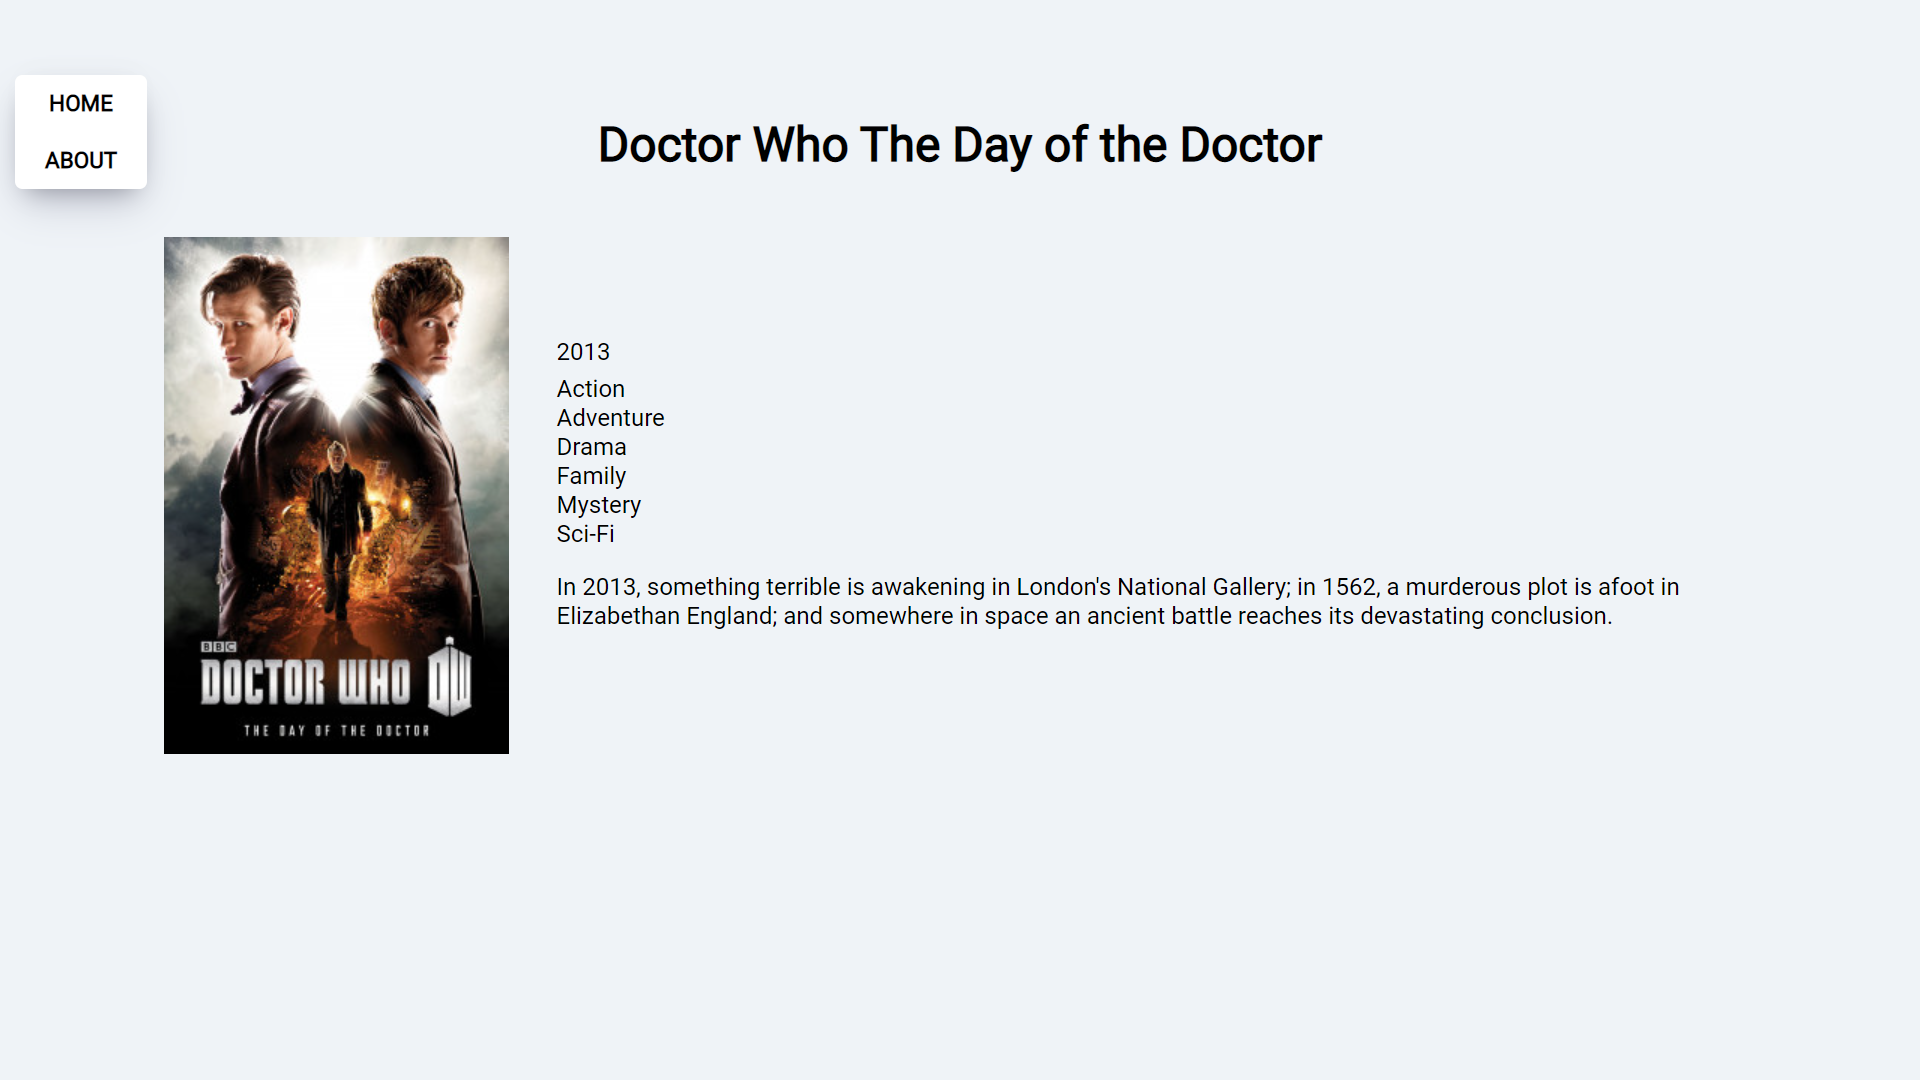
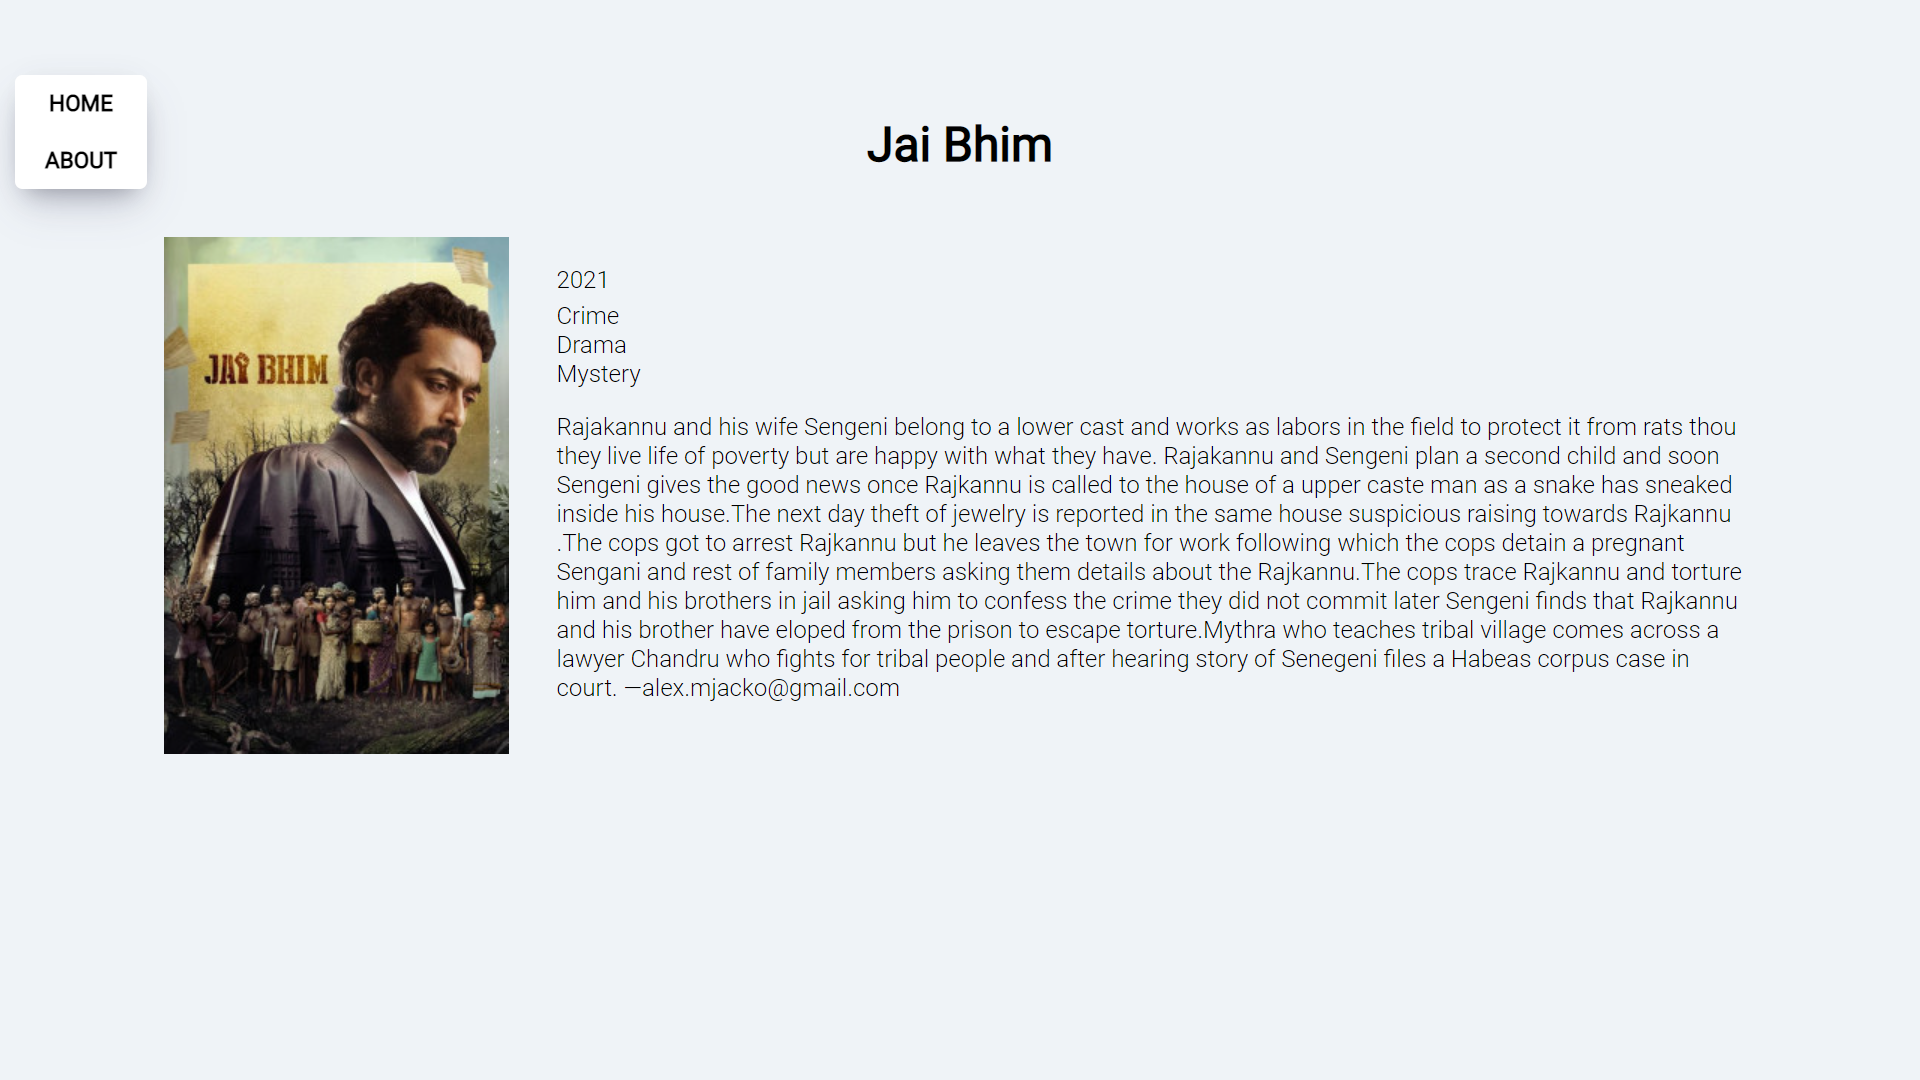
docs(`README`): replace `detail-page.png` and add Netlify badge

Changed region(s): [[0.0625, 0.2139, 0.9062, 0.7028], [0.3125, 0.0917, 0.6875, 0.1528], [0.0312, 0.0917, 0.0625, 0.1528]]

diff --git a/README.md b/README.md
@@ -1,5 +1,7 @@
 # [Movie App](https://movie-movie.netlify.app)
 
+[![Netlify Status](https://api.netlify.com/api/v1/badges/1f4ceda8-cc5d-4131-bfcb-d5840022e895/deploy-status)](https://app.netlify.com/sites/movie-movie/deploys)
+
 Movie App is a simple React app that lists movies from YTS.
 
 ## Pages
